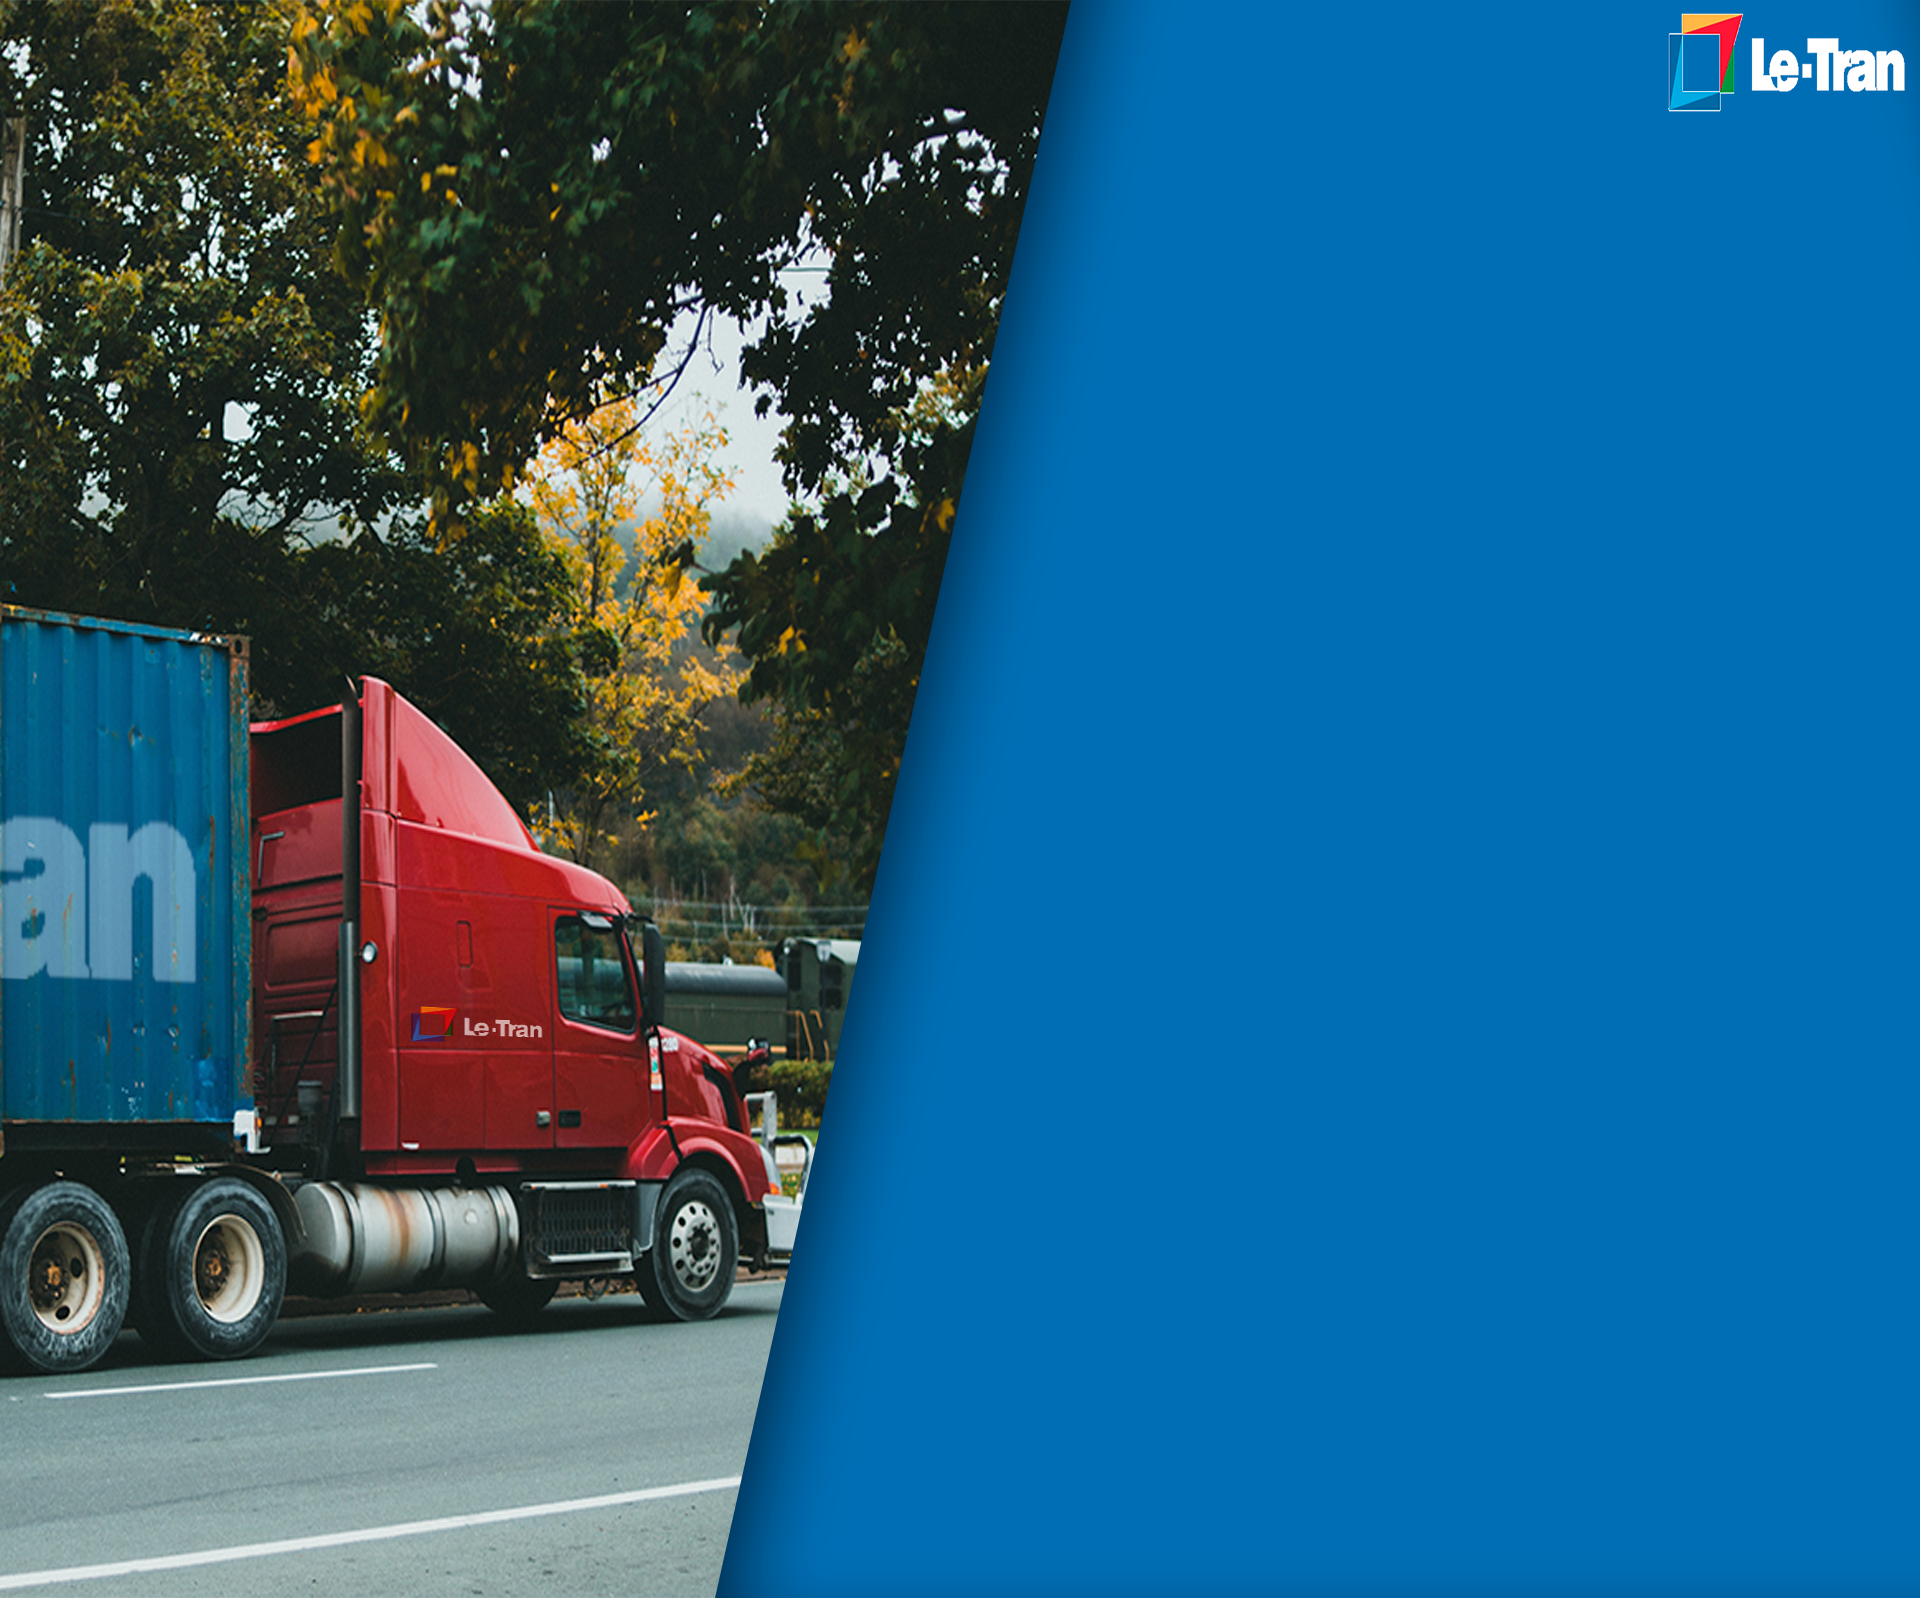
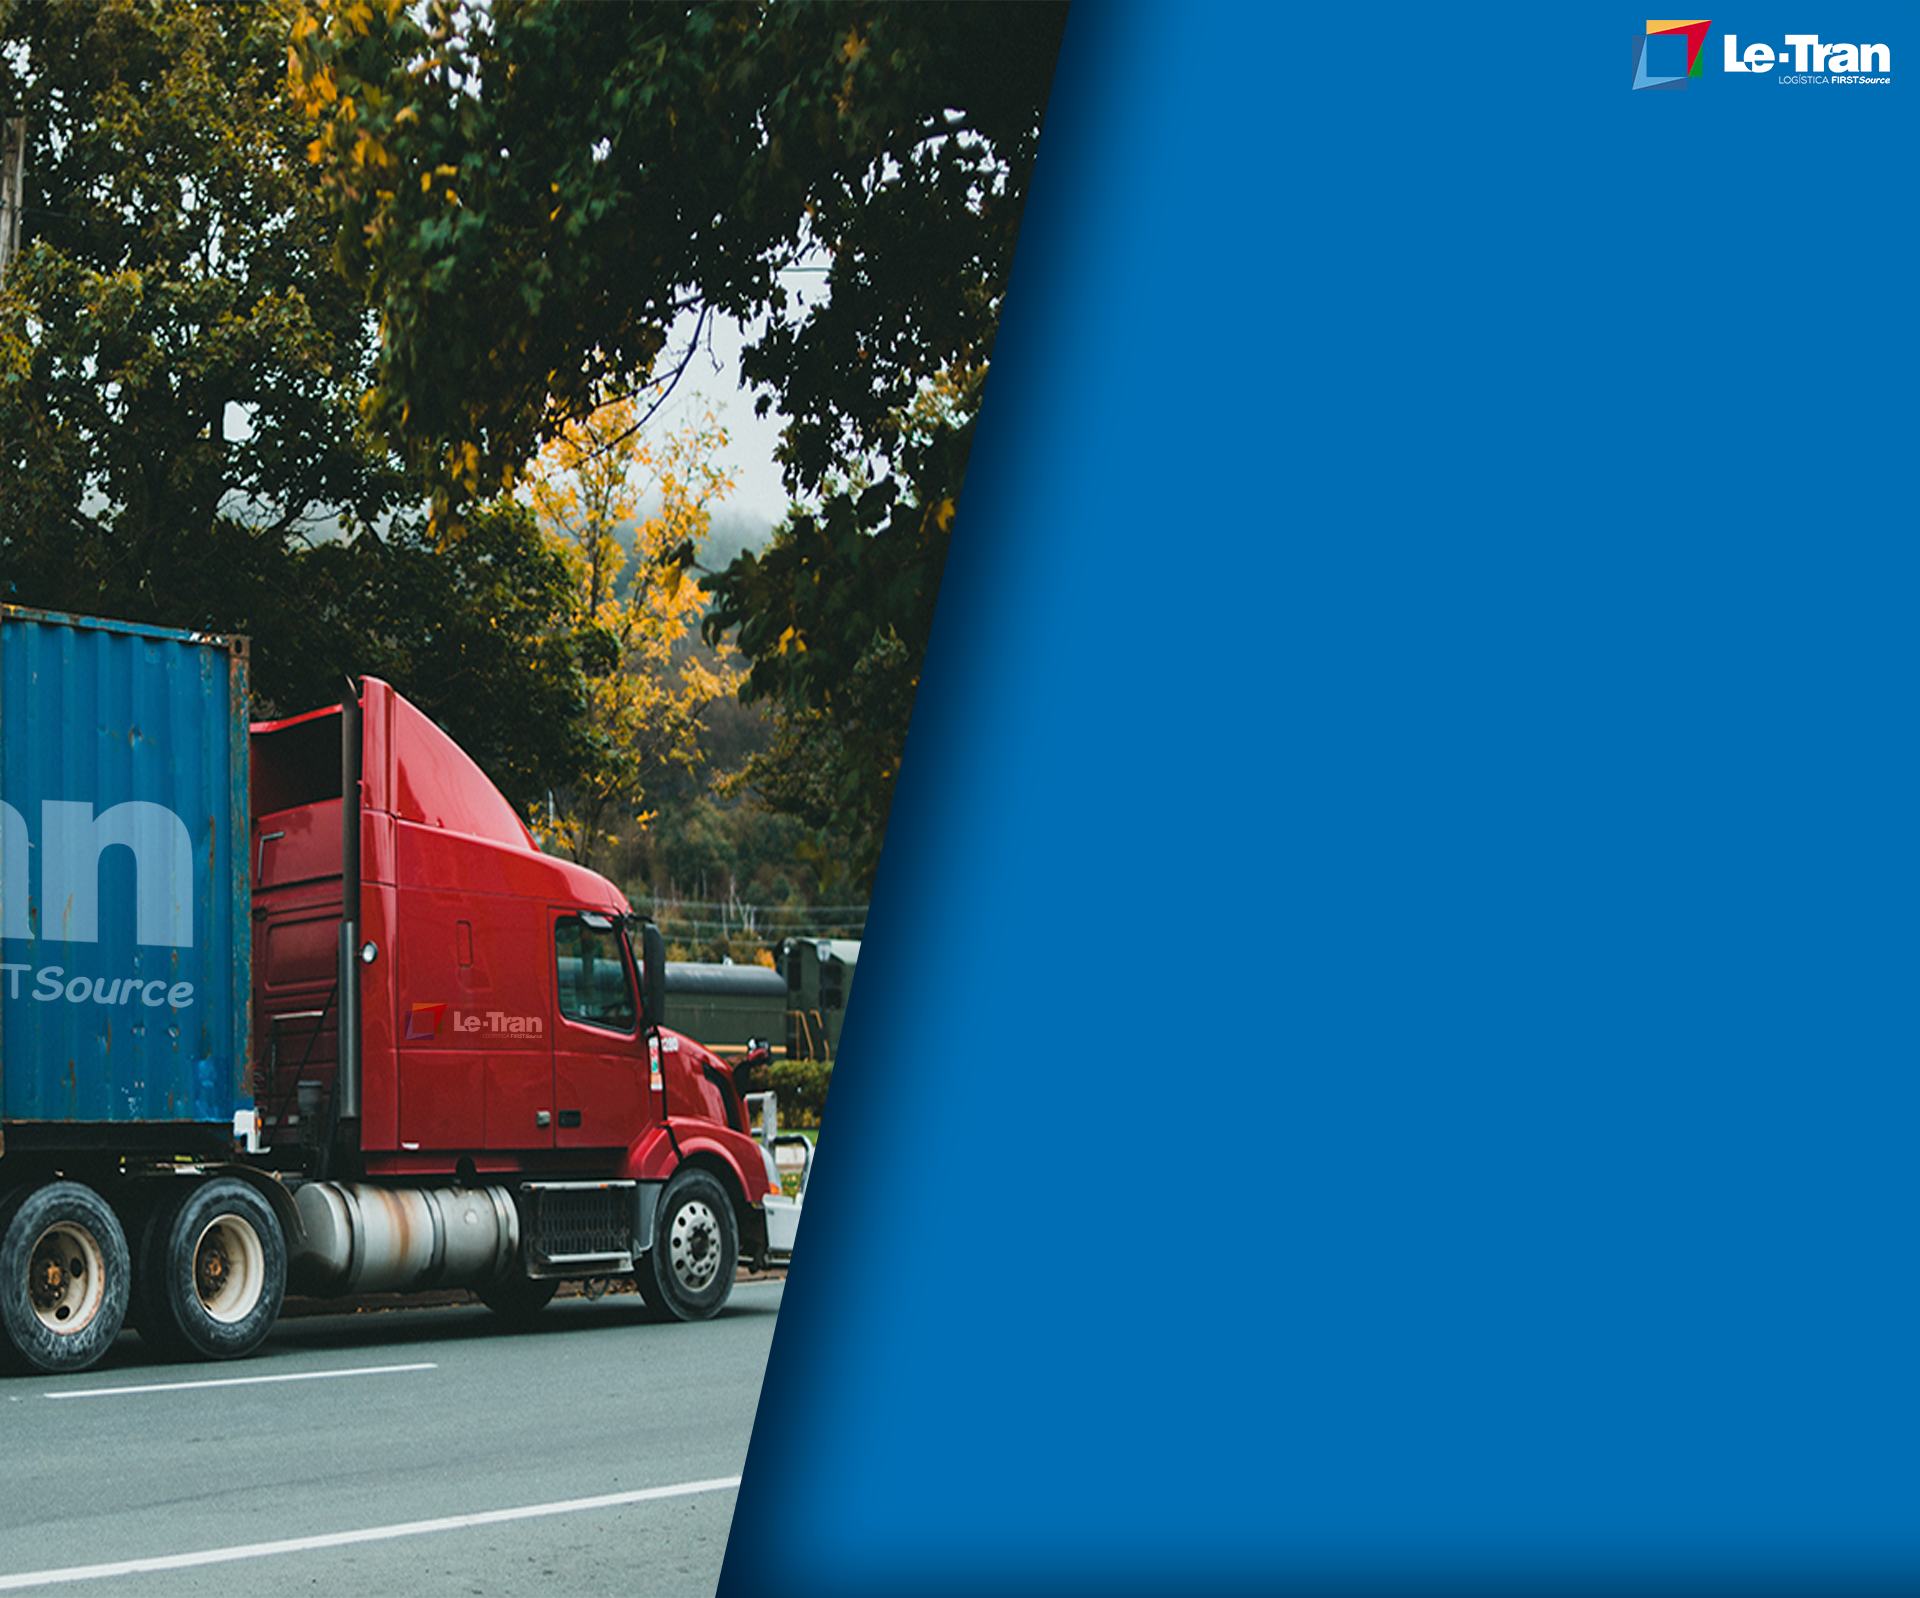
cont-observacion

diff --git a/templates/publico/formulario/contacto.html b/templates/publico/formulario/contacto.html
@@ -8,48 +8,68 @@
     <h3 class="cell" style="margin-bottom: 2em; text-align: center;">Contactanos </h3>  
     <form class="cell medium-9 grid-x grid-margin-x" method="POST">{% csrf_token %}
 
-        <div class="cell medium-6">
-            <label>Nombre:</label>
-            <div class="input-group">       
-              {{form.nombre}}
-            </div>
-        </div>
-        <div class="cell medium-6">
-            <label>Mail:</label>
-            <div class="input-group">       
-              {{form.mail}}
-            </div>
-        </div>
-        <div class="cell medium-6">
-            <label>Ciudad:</label>
-            <div class="input-group">       
-              {{form.ciudad}}
-            </div>
-        </div>
-        <div class="cell medium-6">
-            <label>Empresa:</label>
-            <div class="input-group">       
-              {{form.empresa}}
-            </div>
-        </div>
-        <div class="cell medium-6">
-            <label>Telefono:</label>
-            <div class="input-group">       
-              {{form.telefono}}
-            </div>
-        </div>
-        <div class="cell medium-6">
-            <label>He leido y acepto la politica de tratamiento de datos</label>
-            <div class="input-group">       
-              {{form.aceptar}}
-            </div>
-        </div>
-        <div class="cell medium-6">
-            <button type="submit" class="button" style="width: 200px;">Guardar</button>
 
-        </div>
-    </form>
+<div class="grid-x grid-margin-x">
+  <div class="cell small-6" id="example1" data-something="" data-mutate="v5xmob-sticky">
+    <div class="cell medium-6">
+      <label>Nombre:</label>
+      <div class="input-group">       
+        {{form.nombre}}
+      </div>
+  </div>
+  <div class="cell medium-6">
+      <label>Mail:</label>
+      <div class="input-group">       
+        {{form.mail}}
+      </div>
+  </div>
+  <div class="cell medium-6">
+      <label>Ciudad:</label>
+      <div class="input-group">       
+        {{form.ciudad}}
+      </div>
+  </div>
+  <div class="cell medium-6">
+    <label>Empresa:</label>
+    <div class="input-group">       
+      {{form.empresa}}
+    </div>
 </div>
+<div class="cell medium-6">
+    <label>Telefono:</label>
+    <div class="input-group">       
+      {{form.telefono}}
+    </div>
+</div>
+<div class="cell medium-6">
+    <label>He leido y acepto la politica de tratamiento de datos</label>
+    <div class="input-group">       
+      {{form.aceptar}}
+    </div>
+</div>
+<div class="cell medium-6">
+    <label>Déjanos tu mensaje</label>
+    <div class="input-group">       
+      {{form.observacion}}
+    </div>
+</div>
+<div class="cell medium-6">
+  <button type="submit" class="button" style="width: 200px;">Guardar</button>
+
+</div>
+</form>
+
+  </div>
+  
+  <div class="medium-6 cell small-order-1 medium-order-2 " >
+      <img  src="{% static 'img/contacto.jpg' %}">
+    </div>
+  </div>
+</div>
+
+</div>
+
+
   
 
 {% endblock publico-content %}

diff --git a/templates/publico/index.html b/templates/publico/index.html
@@ -15,7 +15,7 @@
       <li class="is-active orbit-slide">
         <figure class="orbit-figure">
           
-          <img data-interchange="[{% static 'img/BANNER AZUL-celular.png' %}, small], [{% static 'img/moto.jpg' %}, medium], [{% static 'img/BANNER AZUL.png' %}, large]">
+          <img data-interchange="[{% static 'img/BANNER AZUL-celular.png' %}, small], [{% static 'img/moto.jpg' %}, medium], [{% static 'img/BANNER AZUL 2000x600.png' %}, large]">
           <div class="centrado">
               <h1  >Una solución<br> muchos beneficios <br> 
               </h1>
@@ -64,6 +64,7 @@
       </li>
     </ul>
   </div>
+  
   
   <nav class="orbit-bullets">
     <button class="is-active" data-slide="0">
@@ -144,6 +145,7 @@
 
 <br>
 <br>
+
 <!-- <article class="grid-container">
   <div class="grid-x grid-margin-x">
     <div class="medium-6 cell small-order-2 medium-order-1">

diff --git a/templates/publico.html b/templates/publico.html
@@ -4,13 +4,13 @@
 
 {% block content %}
 
-<div class="title-bar" data-responsive-toggle="example-menu" data-hide-for="medium">
-  <button class="menu-icon" type="button" data-toggle></button>
+<div class="title-bar" data-responsive-toggle="responsive-menu" data-hide-for="medium">
+  <button class="menu-icon" type="button" data-toggle="responsive-menu"></button>
   <div class="title-bar-title">Menu</div>
 </div>
   
-<div class="top-bar" class="top-bar"  id="example-menu">
-  <a href="{% url 'home_app:publico' %}"> <img src="{% static 'img/LETRAN NEGRO.PNG' %}"  alt="10" width="145"> </a>    
+<div class="top-bar" id="responsive-menu">
+  <a href="{% url 'home_app:publico' %}"> <img src="{% static 'img/LETRAN NEGRO.PNG' %}"  alt="10" width="140"> </a>    
   <div class="top-bar-right">
     <ul class="dropdown menu" data-dropdown-menu>        
       <li class="has-submenu">

diff --git a/staticfiles/css/app.css b/staticfiles/css/app.css
@@ -365,6 +365,36 @@
   z-index: 20;
 }
 
+a {
+  display: inline-block;
+  width: 50px;
+  text-decoration: none;
+}
+nav, scroll-container {
+  display: block;
+  margin: 0 auto;
+  text-align: center;
+}
+nav {
+  width: 339px;
+  padding: 5px;
+  border: 1px solid black;
+}
+scroll-container {
+  display: block;
+  width: 350px;
+  height: 200px;
+  overflow-y: scroll;
+  scroll-behavior: smooth;
+}
+scroll-page {
+  display: flex;
+  align-items: center;
+  justify-content: center;
+  height: 100%;
+  font-size: 5em;
+}
+
 
 
 

diff --git a/templates/publico/formulario/base_formulario.html b/templates/publico/formulario/base_formulario.html
@@ -1,0 +1,11 @@
+{% extends "publico.html" %} 
+
+{% load static %} 
+
+{% block css %} 
+
+{% endblock css %} 
+
+{% block js %} 
+
+{% endblock js %}

diff --git a/static/css/app.css b/static/css/app.css
@@ -508,3 +508,5 @@
 
 
 
+
+

diff --git a/applications/pqr/migrations/0019_contacto_observacion.py b/applications/pqr/migrations/0019_contacto_observacion.py
@@ -1,0 +1,19 @@
+# Generated by Django 3.2.12 on 2022-06-10 20:11
+
+from django.db import migrations, models
+
+
+class Migration(migrations.Migration):
+
+    dependencies = [
+        ('pqr', '0018_alter_respuesta_tipo'),
+    ]
+
+    operations = [
+        migrations.AddField(
+            model_name='contacto',
+            name='observacion',
+            field=models.CharField(default=1, max_length=100),
+            preserve_default=False,
+        ),
+    ]

diff --git a/applications/pqr/migrations/0020_alter_contacto_observacion.py b/applications/pqr/migrations/0020_alter_contacto_observacion.py
@@ -1,0 +1,18 @@
+# Generated by Django 3.2.12 on 2022-06-10 20:15
+
+from django.db import migrations, models
+
+
+class Migration(migrations.Migration):
+
+    dependencies = [
+        ('pqr', '0019_contacto_observacion'),
+    ]
+
+    operations = [
+        migrations.AlterField(
+            model_name='contacto',
+            name='observacion',
+            field=models.TextField(max_length=150),
+        ),
+    ]

diff --git a/applications/pqr/views.py b/applications/pqr/views.py
@@ -20,7 +20,7 @@ class PqrCreateView(CreateView):
 class ContactoCreateView(CreateView):
     template_name = "publico/formulario/contacto.html"
     model = Contacto
-    fields = ['nombre', 'mail', 'ciudad', 'empresa', 'telefono', 'aceptar']
+    fields = ['nombre', 'mail', 'ciudad', 'empresa', 'telefono', 'aceptar', 'observacion']
     success_url = '.'   
 
 class ConsultarListView(ListView):

diff --git a/applications/pqr/models.py b/applications/pqr/models.py
@@ -69,6 +69,7 @@ class Contacto(models.Model):
     empresa = models.CharField(max_length=60)
     telefono = models.CharField(max_length=15)
     aceptar = models.BooleanField()
+    observacion = models.TextField(max_length=150)
 
     def __str__(self):
         return self.nombre
